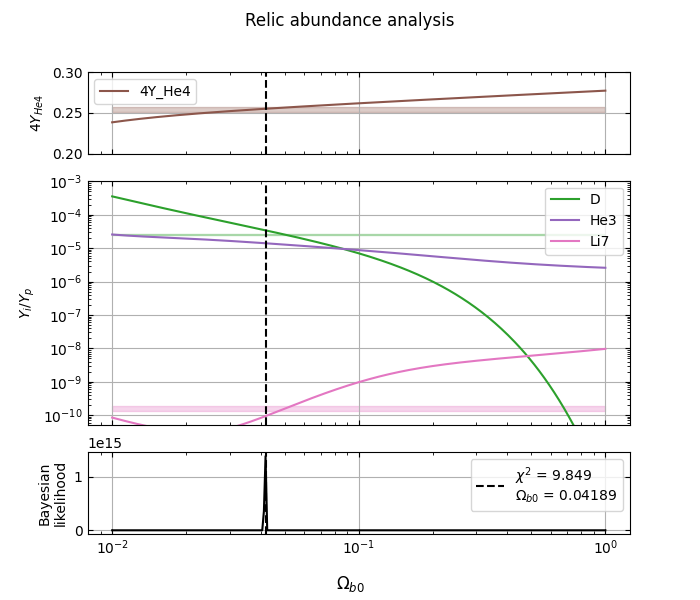
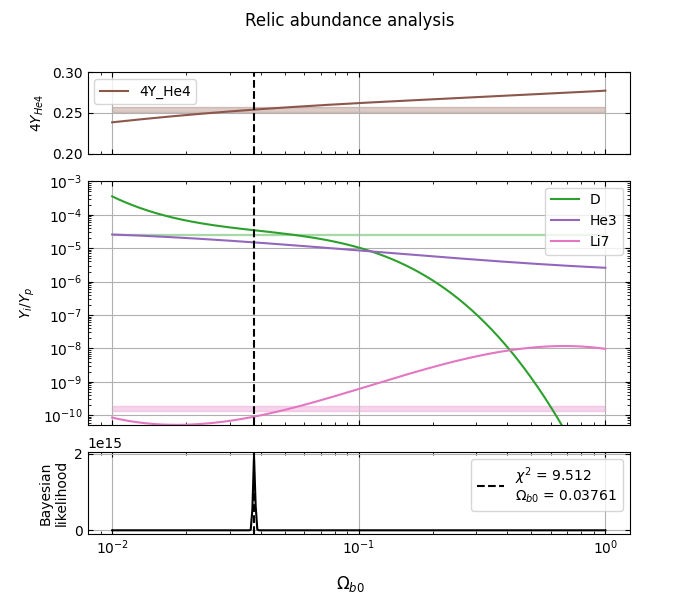
n=4 plot

diff --git a/Projects/Project 2/problem_scripts/problem_j.py b/Projects/Project 2/problem_scripts/problem_j.py
@@ -19,7 +19,7 @@ if __name__ == "__main__":
     # Variables
     T_i = 1e11  # initial temperature [K]
     T_f = 1e7  # final temperature [K]
-    Omega_b0_vals = np.logspace(-2, 0, 10)  # Omega_b0 values to test
+    Omega_b0_vals = np.logspace(-2, 0, 4)  # Omega_b0 values to test
     filename = FIG_DIR / "j_relic_abundances.png"
 
     # Plot relic abundances
